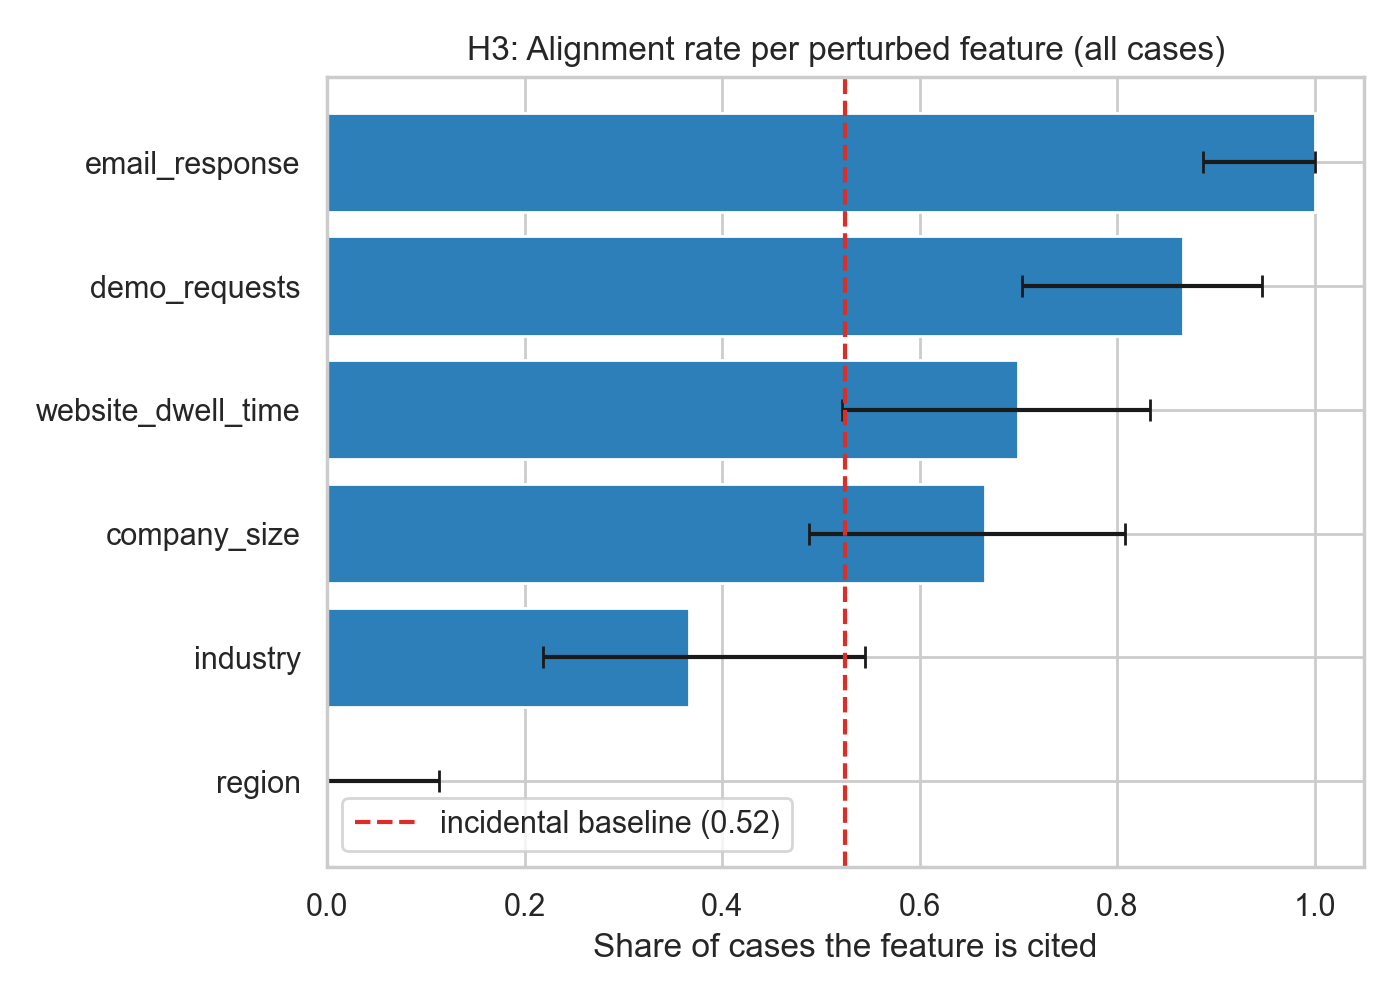
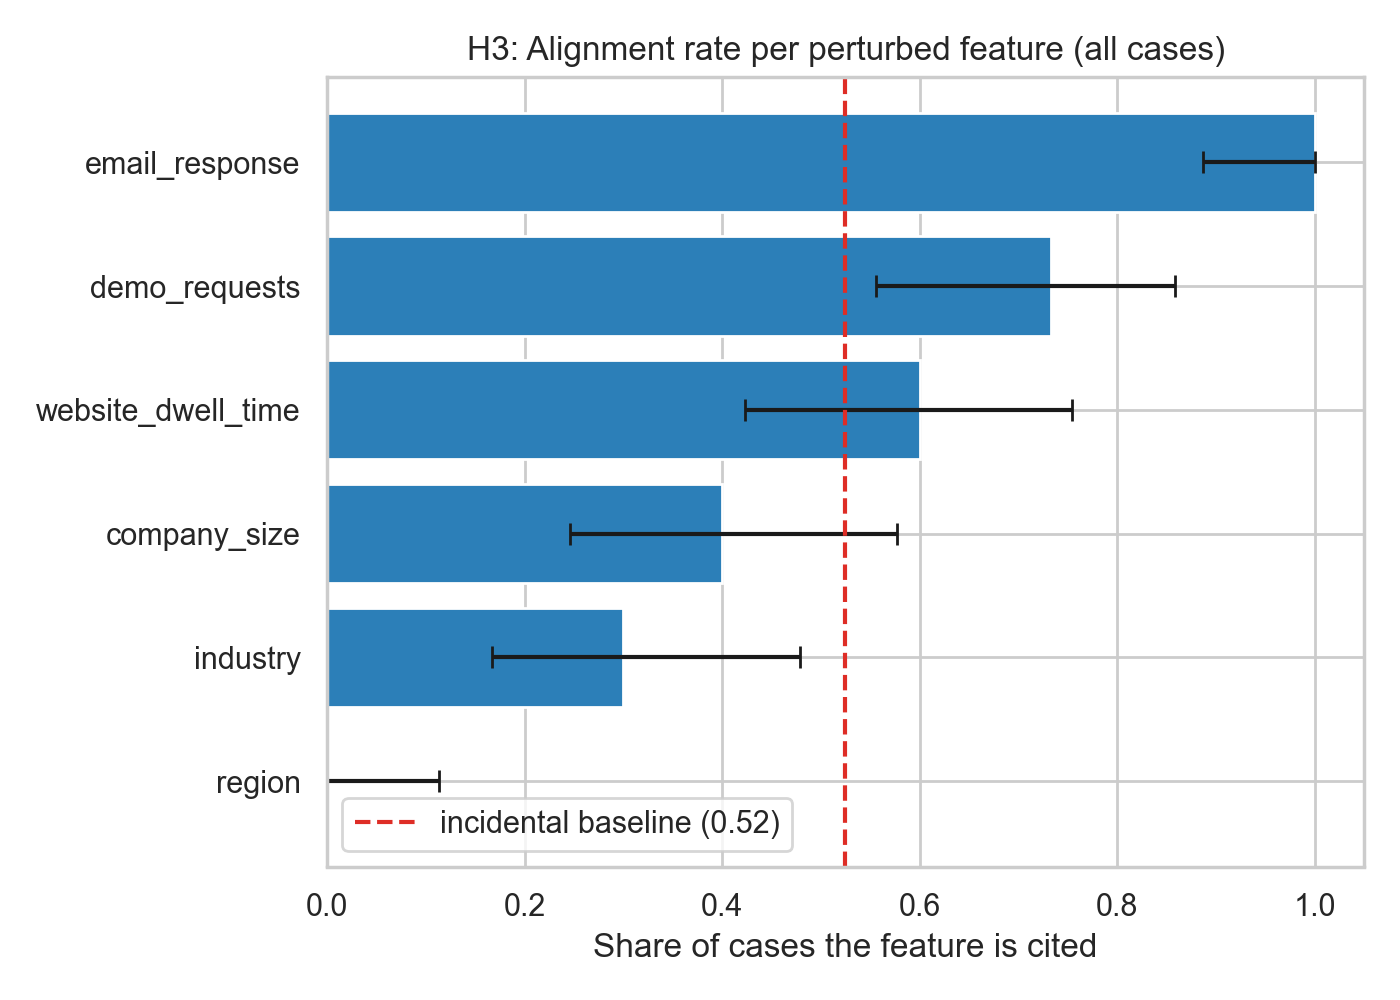
H4 hypothesis test

diff --git a/03_analysis/h4_model_differences.py b/03_analysis/h4_model_differences.py
@@ -1,1 +1,338 @@
+"""
+H4: The generated lead scores, their stability, and the associated explanations
+    differ significantly between language models given identical input data.
+
+Design note (per supervisor):
+- The 5 runs per (profile x model) are repeated measurements and are NOT independent.
+- 'model' is a FIXED effect inside mixed-effects models with a RANDOM INTERCEPT
+  per profile. Because the intent outcome is binary, a logistic GLMM is used.
+- Multiplicity: Holm as primary correction; Benjamini-Hochberg (FDR) as a
+  less-conservative fallback (supervisor's suggestion).
+
+Explanation alignment:
+- Primary operationalization: aligned = final_code >= 3 (perturbed feature was a
+  supporting / load-bearing factor for the intent).
+- Sensitivity check: aligned = final_code >= 1 (feature merely mentioned).
+"""
+
+import logging
+from pathlib import Path
+
+import numpy as np
 import pandas as pd
+
+import statsmodels.formula.api as smf
+import statsmodels.api as sm
+from statsmodels.stats.multitest import multipletests
+from scipy.stats import kruskal, chi2_contingency
+
+# ------------------------------------------------------------------ #
+# 0. Logging setup  (console + file, like the figures in h1)
+# ------------------------------------------------------------------ #
+base_dir = Path(__file__).parent
+log_dir = base_dir / "logs"
+fig_dir = base_dir / "figures"
+log_dir.mkdir(parents=True, exist_ok=True)
+fig_dir.mkdir(parents=True, exist_ok=True)
+
+log_path = log_dir / "h4_model_comparison.log"
+
+logger = logging.getLogger("H4")
+logger.setLevel(logging.INFO)
+logger.handlers.clear()  # avoid duplicate handlers on re-run
+
+_fmt = logging.Formatter("%(asctime)s | %(levelname)s | %(message)s",
+                         datefmt="%Y-%m-%d %H:%M:%S")
+
+file_handler = logging.FileHandler(log_path, mode="w", encoding="utf-8")
+file_handler.setFormatter(_fmt)
+logger.addHandler(file_handler)
+
+console_handler = logging.StreamHandler()
+console_handler.setFormatter(_fmt)
+logger.addHandler(console_handler)
+
+def log_df(title, frame):
+    """Log a dataframe as a monospaced block."""
+    logger.info("%s\n%s", title, frame.to_string())
+
+logger.info("=" * 70)
+logger.info("H4 model comparison — analysis started")
+logger.info("Log file: %s", log_path)
+logger.info("=" * 70)
+
+# ------------------------------------------------------------------ #
+# 1. Load data
+# ------------------------------------------------------------------ #
+df = pd.read_csv(base_dir / "post_processing" / "llm_lead_intent_results_clean.csv")
+expl = pd.read_csv(base_dir / "post_processing" / "llm_lead_intent_results_explanations_coded.csv")
+logger.info("Loaded scores: %d rows | explanation coding: %d rows",
+            len(df), len(expl))
+
+# ------------------------------------------------------------------ #
+# 2. Preparation
+# ------------------------------------------------------------------ #
+score_map = {"Low Intent": 0, "High Intent": 1}
+df["score"] = df["intent"].str.strip().map(score_map)
+df["base_profile"] = df["profile_id"].str.split("_").str[0]
+df["model"] = df["model"].str.strip()
+
+n_unmapped = df["score"].isna().sum()
+if n_unmapped:
+    logger.warning("%d intent values could not be mapped to 0/1 and are dropped",
+                   n_unmapped)
+
+logger.info("Models found: %s", sorted(df["model"].unique()))
+logger.info("Runs per model: %s", df.groupby("model")["run"].count().to_dict())
+
+pvalue_registry = []  # (label, p)
+
+def register(label, p):
+    pvalue_registry.append((label, float(p)))
+    logger.info("REGISTERED p-value [%s] raw p = %.4g", label, p)
+
+
+# ================================================================== #
+# H4a: Lead scores differ between models  (logistic GLMM)
+# ================================================================== #
+logger.info("-" * 70)
+logger.info("H4a: Lead scores differ between models (logistic GLMM)")
+logger.info("-" * 70)
+
+df_glmm = df.dropna(subset=["score"]).copy()
+vc = {"profile": "0 + C(profile_id)"}  # random intercept per profile
+
+try:
+    binom_glmm = sm.BinomialBayesMixedGLM.from_formula(
+        "score ~ C(model)", vc_formulas=vc, data=df_glmm
+    )
+    res_a = binom_glmm.fit_vb()
+    logger.info("H4a logistic GLMM summary:\n%s", res_a.summary())
+except Exception as e:
+    logger.exception("H4a GLMM failed, continuing with robust omnibus only: %s", e)
+
+# robust omnibus on independent per-profile mean scores
+per_unit = (df_glmm.groupby(["model", "profile_id"])["score"].mean().reset_index())
+groups = [g["score"].values for _, g in per_unit.groupby("model")]
+H_a, p_a = kruskal(*groups)
+logger.info("H4a omnibus (Kruskal-Wallis on per-profile mean scores): "
+            "H=%.3f, p=%.4g", H_a, p_a)
+register("H4a_scores_between_models", p_a)
+
+
+# ================================================================== #
+# H4b: Score stability differs between models
+# instability = within-cell variance of the binary score across the 5 runs
+# ================================================================== #
+logger.info("-" * 70)
+logger.info("H4b: Score stability differs between models")
+logger.info("-" * 70)
+
+stab = (df_glmm.groupby(["model", "profile_id", "base_profile"])["score"]
+        .agg(["mean", "var", "count"]).reset_index())
+stab["instability"] = stab["var"].fillna(0.0)
+stab["flipped"] = stab["mean"].between(0.0, 1.0, inclusive="neither").astype(int)
+
+log_df("Instability (within-cell variance) per model:",
+       stab.groupby("model")["instability"].agg(["mean", "std", "count"]))
+
+try:
+    mlm_b = smf.mixedlm("instability ~ C(model)", stab,
+                        groups=stab["base_profile"]).fit()
+    logger.info("H4b mixed model summary:\n%s", mlm_b.summary())
+except Exception as e:
+    logger.exception("H4b mixed model failed: %s", e)
+
+groups_b = [g["instability"].values for _, g in stab.groupby("model")]
+H_b, p_b = kruskal(*groups_b)
+logger.info("H4b omnibus (Kruskal-Wallis on instability): H=%.3f, p=%.4g", H_b, p_b)
+register("H4b_stability_between_models", p_b)
+
+
+# ================================================================== #
+# H4c: Explanation alignment differs between models
+# primary: aligned = final_code >= 3 ; sensitivity: >= 1
+# ================================================================== #
+logger.info("-" * 70)
+logger.info("H4c: Explanation alignment differs between models")
+logger.info("-" * 70)
+
+expl["model"] = expl["model"].str.strip()
+expl["final_code"] = pd.to_numeric(expl["final_code"], errors="coerce")
+n_bad = expl["final_code"].isna().sum()
+if n_bad:
+    logger.warning("%d rows have non-numeric final_code and are dropped", n_bad)
+expl = expl.dropna(subset=["final_code"]).copy()
+
+def run_alignment_test(threshold, label):
+    """Run the alignment analysis for a given 'aligned' threshold."""
+    logger.info(">> Alignment operationalization: aligned = final_code >= %d",
+                threshold)
+    e = expl.copy()
+    e["aligned"] = (e["final_code"] >= threshold).astype(int)
+
+    log_df(f"Alignment rate per model (>= {threshold}):",
+           e.groupby("model")["aligned"].agg(["mean", "sum", "count"]))
+
+    # primary: logistic GLMM, random intercept per profile
+    try:
+        glmm_c = sm.BinomialBayesMixedGLM.from_formula(
+            "aligned ~ C(model)", vc_formulas={"profile": "0 + C(profile_id)"},
+            data=e,
+        )
+        res_c = glmm_c.fit_vb()
+        logger.info("H4c logistic GLMM summary (>= %d):\n%s",
+                    threshold, res_c.summary())
+    except Exception as ex:
+        logger.exception("H4c GLMM failed (>= %d): %s", threshold, ex)
+
+    # supporting omnibus: chi-square (marginal)
+    ct = pd.crosstab(e["model"], e["aligned"])
+    chi2, p_chi, dof, _ = chi2_contingency(ct)
+    log_df(f"Contingency table model x aligned (>= {threshold}):", ct)
+    logger.info("H4c chi-square (>= %d): chi2=%.3f, dof=%d, p=%.4g",
+                threshold, chi2, dof, p_chi)
+
+    # robust clustered omnibus: KW on per-profile alignment rate
+    per_unit_c = (e.groupby(["model", "profile_id"])["aligned"].mean().reset_index())
+    groups_c = [g["aligned"].values for _, g in per_unit_c.groupby("model")]
+    H_c, p_kw = kruskal(*groups_c)
+    logger.info("H4c omnibus (Kruskal-Wallis on per-profile alignment rate, "
+                ">= %d): H=%.3f, p=%.4g", threshold, H_c, p_kw)
+    register(label, p_kw)
+
+# primary (>=3) and sensitivity (>=1)
+run_alignment_test(3, "H4c_alignment_between_models_primary_ge3")
+run_alignment_test(1, "H4c_alignment_between_models_sensitivity_ge1")
+
+# ================================================================== #
+# 2d. Figures  (saved under base_dir / "figures")
+# ================================================================== #
+import matplotlib.pyplot as plt
+import seaborn as sns
+from statsmodels.stats.proportion import proportion_confint
+
+logger.info("-" * 70)
+logger.info("Generating figures -> %s", fig_dir)
+logger.info("-" * 70)
+
+sns.set_theme(style="whitegrid")
+
+def _wilson(series):
+    """Return (rate, err_low, err_high) with Wilson 95% CI for a 0/1 series."""
+    k, n = int(series.sum()), int(series.count())
+    rate = k / n if n else 0.0
+    low, high = proportion_confint(k, n, alpha=0.05, method="wilson")
+    return rate, rate - low, high - rate
+
+# order models consistently across all plots
+model_order = sorted(df_glmm["model"].unique())
+
+# ---------- Figure 1 (H4a): High-Intent rate per model with Wilson CI ----------
+rows = []
+for m, g in df_glmm.groupby("model"):
+    rate, el, eh = _wilson(g["score"])
+    rows.append({"model": m, "rate": rate, "err_low": el, "err_high": eh})
+agg_a = pd.DataFrame(rows).set_index("model").reindex(model_order).reset_index()
+
+fig, ax = plt.subplots(figsize=(8, 5))
+ax.bar(agg_a["model"], agg_a["rate"],
+       yerr=[agg_a["err_low"], agg_a["err_high"]], capsize=6, color="#2c7fb8")
+for i, r in agg_a.iterrows():
+    ax.text(i, r["rate"] + r["err_high"] + 0.02, f"{r['rate']:.1%}",
+            ha="center", va="bottom", fontweight="bold")
+ax.set_title("H4a: High-Intent rate per model (Wilson 95% CI)")
+ax.set_xlabel("Model"); ax.set_ylabel("Share of 'High Intent' runs")
+ax.set_ylim(0, 1); ax.tick_params(axis="x", rotation=30)
+fig.tight_layout()
+fig.savefig(fig_dir / "h4a_score_rate_per_model.png", dpi=200)
+plt.close(fig)
+
+# ---------- Figure 2 (H4b): Score instability per model ----------
+fig, ax = plt.subplots(figsize=(8, 5))
+sns.boxplot(data=stab, x="model", y="instability", order=model_order,
+            color="#de2d26", ax=ax)
+sns.stripplot(data=stab, x="model", y="instability", order=model_order,
+              color="black", alpha=0.35, size=3, ax=ax)
+ax.set_title("H4b: Score instability per model (within-cell variance across runs)")
+ax.set_xlabel("Model"); ax.set_ylabel("Instability (variance of 0/1 score)")
+ax.tick_params(axis="x", rotation=30)
+fig.tight_layout()
+fig.savefig(fig_dir / "h4b_instability_per_model.png", dpi=200)
+plt.close(fig)
+
+# ---------- Figure 2b (H4b): Flip rate per model (share of non-unanimous cells) ----------
+rows = []
+for m, g in stab.groupby("model"):
+    rate, el, eh = _wilson(g["flipped"])
+    rows.append({"model": m, "rate": rate, "err_low": el, "err_high": eh})
+agg_flip = pd.DataFrame(rows).set_index("model").reindex(model_order).reset_index()
+
+fig, ax = plt.subplots(figsize=(8, 5))
+ax.bar(agg_flip["model"], agg_flip["rate"],
+       yerr=[agg_flip["err_low"], agg_flip["err_high"]], capsize=6, color="#756bb1")
+for i, r in agg_flip.iterrows():
+    ax.text(i, r["rate"] + r["err_high"] + 0.02, f"{r['rate']:.1%}",
+            ha="center", va="bottom", fontweight="bold")
+ax.set_title("H4b: Flip rate per model (share of profiles with non-unanimous runs)")
+ax.set_xlabel("Model"); ax.set_ylabel("Flip rate")
+ax.set_ylim(0, 1); ax.tick_params(axis="x", rotation=30)
+fig.tight_layout()
+fig.savefig(fig_dir / "h4b_flip_rate_per_model.png", dpi=200)
+plt.close(fig)
+
+# ---------- Figure 3 (H4c): Alignment rate per model, primary (>=3) vs sensitivity (>=1) ----------
+rows = []
+for thr in (3, 1):
+    e = expl.copy()
+    e["aligned"] = (e["final_code"] >= thr).astype(int)
+    for m, g in e.groupby("model"):
+        rate, el, eh = _wilson(g["aligned"])
+        rows.append({"model": m, "threshold": f">= {thr}",
+                     "rate": rate, "err_low": el, "err_high": eh})
+agg_c = pd.DataFrame(rows)
+
+fig, ax = plt.subplots(figsize=(9, 5))
+sns.barplot(data=agg_c, x="model", y="rate", hue="threshold",
+            order=model_order, palette={">= 3": "#31a354", ">= 1": "#a1d99b"},
+            ax=ax)
+ax.set_title("H4c: Explanation alignment rate per model (primary >=3 vs. sensitivity >=1)")
+ax.set_xlabel("Model"); ax.set_ylabel("Alignment rate")
+ax.set_ylim(0, 1); ax.tick_params(axis="x", rotation=30)
+ax.legend(title="Aligned if final_code")
+fig.tight_layout()
+fig.savefig(fig_dir / "h4c_alignment_rate_per_model.png", dpi=200)
+plt.close(fig)
+
+logger.info("Figures saved: %s",
+            [p.name for p in sorted(fig_dir.glob('h4*.png'))])
+
+
+# ================================================================== #
+# 3. Multiplicity correction:  Holm (primary) + Benjamini-Hochberg (fallback)
+# ================================================================== #
+logger.info("=" * 70)
+logger.info("Multiple-testing correction across H4 sub-tests")
+logger.info("=" * 70)
+
+labels = [lbl for lbl, _ in pvalue_registry]
+pvals = [p for _, p in pvalue_registry]
+
+holm_rej, holm_p, _, _ = multipletests(pvals, alpha=0.05, method="holm")
+fdr_rej, fdr_p, _, _ = multipletests(pvals, alpha=0.05, method="fdr_bh")
+
+summary = pd.DataFrame({
+    "test": labels,
+    "p_raw": pvals,
+    "p_holm": holm_p,
+    "sig_holm(.05)": holm_rej,
+    "p_fdr_bh": fdr_p,
+    "sig_fdr(.05)": fdr_rej,
+})
+log_df("H4 corrected results:", summary)
+
+out_csv = base_dir / "logs" / "h4_model_comparison_results.csv"
+summary.to_csv(out_csv, index=False)
+logger.info("Saved results table -> %s", out_csv)
+logger.info("Saved full log       -> %s", log_path)
+logger.info("H4 analysis finished.")

diff --git a/03_analysis/h3_explanation_alignment.py b/03_analysis/h3_explanation_alignment.py
@@ -45,7 +45,7 @@ FEATURE_TERMS = {
 
 # ---------- load coded explanations ----------
 coding = pd.read_csv(base_dir / "post_processing" / "llm_lead_intent_results_explanations_coded.csv")
-coding["aligned"] = (coding["final_code"] > 0).astype(int)
+coding["aligned"] = (coding["final_code"] > 2).astype(int)
 
 low_text = coding["reasoning"].astype(str).str.lower()
 for f, terms in FEATURE_TERMS.items():

diff --git a/03_analysis/h1_feature_sensitivity.py b/03_analysis/h1_feature_sensitivity.py
@@ -30,7 +30,6 @@ class Tee:
 
 _log_file = open(log_path, "w", encoding="utf-8")
 sys.stdout = Tee(sys.stdout, _log_file)
-print(f"Logging to {log_path}")
 
 # map intent classes to binary score
 score_map = {"Low Intent": 0, "High Intent": 1}
